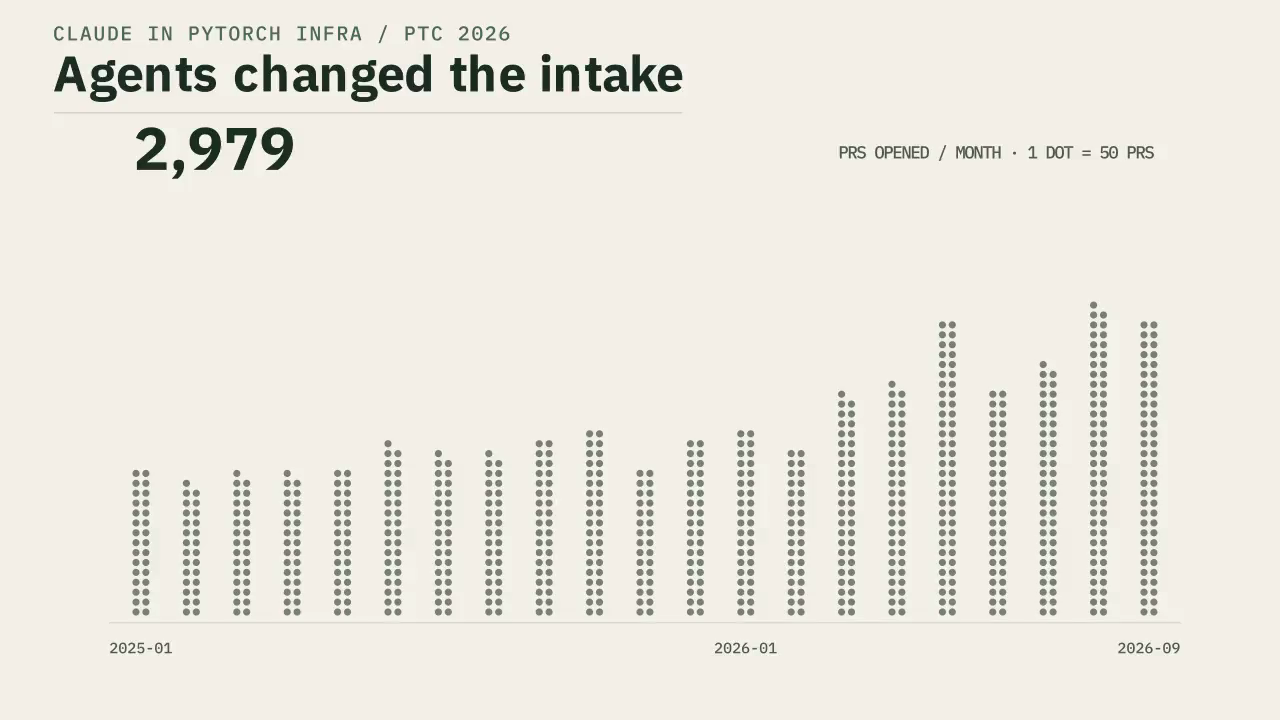
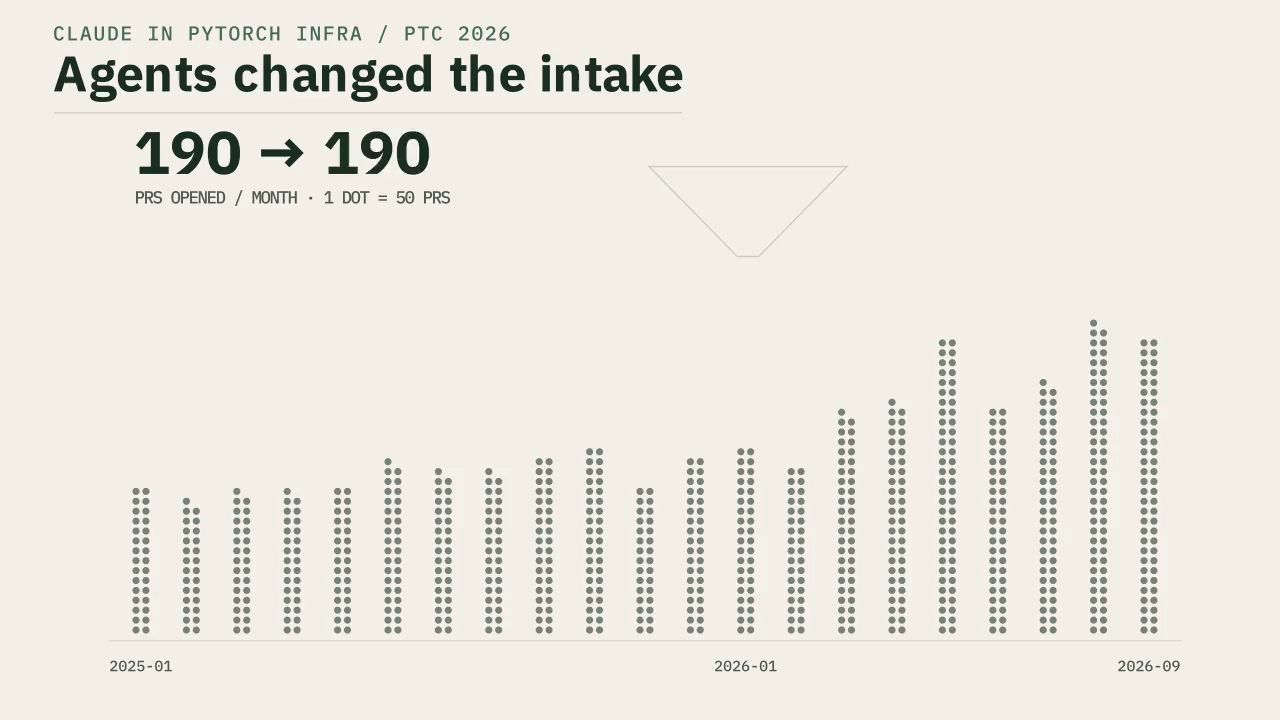
Claude talk: problem prototype pours PR dots through a funnel; drop floating issue band

diff --git a/vizz/presentations/claude_pytorch/sketches/v2_problem.py b/vizz/presentations/claude_pytorch/sketches/v2_problem.py
@@ -1,4 +1,4 @@
-"""Round-2 problem: PR dots pile up month by month, first-time authors turn red, issues stay flat.
+"""Round-2 problem: PR dots pour through a funnel into monthly columns; first-time authors turn red.
 
 Standalone render:
     uv run manim -qm --media_dir /tmp/v2_problem \
@@ -15,17 +15,21 @@ Colors: muted = PRs, red = first-time (untrusted) authors, muted = issues.
 import random
 
 from manim import (
-    DOWN,
     LEFT,
     RIGHT,
     UP,
     Dot,
     FadeIn,
+    FadeOut,
     LaggedStart,
     Line,
+    Polygon,
+    UpdateFromAlphaFunc,
     ValueTracker,
     VGroup,
+    VMobject,
     always_redraw,
+    linear,
     smooth,
 )
 
@@ -47,17 +51,18 @@ MONTHLY_PRS = [
 # fmt: on
 # Quarters 2025 Q1 .. 2026 Q3, aligned with MONTHLY_PRS[3q : 3q + 3].
 FIRST_TIME_PRS = [190, 226, 195, 374, 636, 643, 1824]
-ISSUES = [2098, 2320, 1932, 2084, 1536, 1973, 1881]
 
 COLS_PER_MONTH = 2
 SPACING = 0.11
 DOT_RADIUS = 0.04
 MONTH_PITCH = 0.56
 X0 = -5.6  # left column of the first month
-BASELINE_Y = -2.8
-ISSUE_ROW_Y = 1.1  # bottom row of the issue band
+BASELINE_Y = -3.0
 COUNTER_Y = 2.3
-ISSUE_COLS = 11
+# Funnel above the chart: wide mouth at the top, narrow neck the dots fall through.
+FUNNEL_X = 1.2
+MOUTH_Y, NECK_Y = 2.15, 1.15
+MOUTH_HALF, NECK_HALF = 1.1, 0.12
 LABEL_MONTHS = ("2025-01", "2026-01", "2026-09")
 
 
@@ -87,6 +92,16 @@ def _red_per_month(month_dots: list[int]) -> list[int]:
     return out
 
 
+def _pour(dot: Dot, path: VMobject) -> UpdateFromAlphaFunc:
+    """Fade the dot in at the funnel mouth while it follows its path into the column."""
+
+    def update(d: Dot, alpha: float) -> None:
+        d.move_to(path.point_from_proportion(smooth(alpha)))
+        d.set_fill(opacity=0.75 * min(1.0, alpha * 6))
+
+    return UpdateFromAlphaFunc(dot, update)
+
+
 def build(scene: SlideBase) -> None:
     t = scene.theme
     rng = random.Random(11)
@@ -94,17 +109,34 @@ def build(scene: SlideBase) -> None:
 
     counts = [round(n / PRS_PER_DOT) for _, n in MONTHLY_PRS]
     columns = [_column(i, c) for i, c in enumerate(counts)]
-    dots_by_month = [
-        VGroup(
-            *[
-                Dot(radius=DOT_RADIUS, color=t.muted_text, fill_opacity=0.75).move_to(
-                    p + UP * (4.5 + rng.random() * 1.5) + RIGHT * rng.uniform(-0.2, 0.2)
-                )
-                for p in col
-            ]
-        )
-        for col in columns
-    ]
+    neck = [FUNNEL_X, NECK_Y, 0]
+    dots_by_month, paths_by_month = [], []
+    for col in columns:
+        dots, paths = VGroup(), []
+        for p in col:
+            start = [FUNNEL_X + rng.uniform(-0.8, 0.8) * MOUTH_HALF, MOUTH_Y + 0.25, 0]
+            path = VMobject().set_points_smoothly(
+                [
+                    start,
+                    [FUNNEL_X, (MOUTH_Y + NECK_Y) / 2, 0],
+                    neck,
+                    [(neck[0] + p[0]) / 2, NECK_Y - 0.6, 0],
+                    p,
+                ]
+            )
+            dots.add(Dot(start, radius=DOT_RADIUS, color=t.muted_text, fill_opacity=0))
+            paths.append(path)
+        dots_by_month.append(dots)
+        paths_by_month.append(paths)
+    funnel = Polygon(
+        [FUNNEL_X - MOUTH_HALF, MOUTH_Y, 0],
+        [FUNNEL_X + MOUTH_HALF, MOUTH_Y, 0],
+        [FUNNEL_X + NECK_HALF, NECK_Y, 0],
+        [FUNNEL_X - NECK_HALF, NECK_Y, 0],
+        color=t.divider,
+        stroke_width=1.6,
+        fill_opacity=0,
+    )
 
     # Beat 1: columns drop in month by month while the counter follows the latest month.
     progress = ValueTracker(0)
@@ -120,7 +152,7 @@ def build(scene: SlideBase) -> None:
         )
     )
     unit = scene.meta_text("PRs opened / month · 1 dot = 50 PRs", font_size=14)
-    unit.move_to([X0 + MONTH_PITCH * 20 + SPACING, COUNTER_Y, 0], aligned_edge=RIGHT)
+    unit.move_to([X0, COUNTER_Y - 0.5, 0], aligned_edge=LEFT)
     baseline = Line(
         [X0 - 0.3, BASELINE_Y - 0.12, 0],
         [X0 + MONTH_PITCH * 20 + SPACING + 0.3, BASELINE_Y - 0.12, 0],
@@ -135,23 +167,26 @@ def build(scene: SlideBase) -> None:
             month_labels.add(label)
 
     scene.play(
-        FadeIn(head), FadeIn(unit), FadeIn(baseline), FadeIn(month_labels), run_time=0.4
+        FadeIn(head),
+        FadeIn(unit),
+        FadeIn(baseline),
+        FadeIn(month_labels),
+        FadeIn(funnel),
+        run_time=0.4,
     )
     scene.add(counter)
     drops = []
-    for group, col in zip(dots_by_month, columns, strict=True):
+    for group, paths in zip(dots_by_month, paths_by_month, strict=True):
         drops.append(
             LaggedStart(
-                *[d.animate.move_to(p) for d, p in zip(group, col, strict=True)],
-                lag_ratio=0.01,
+                *[_pour(d, path) for d, path in zip(group, paths, strict=True)],
+                lag_ratio=0.04,
             )
         )
-    for group in dots_by_month:
-        scene.add(group)
     scene.play(
-        LaggedStart(*drops, lag_ratio=0.12),
-        progress.animate(rate_func=smooth).set_value(len(MONTHLY_PRS) - 0.01),
-        run_time=2.8,
+        LaggedStart(*drops, lag_ratio=0.35),
+        progress.animate(rate_func=linear).set_value(len(MONTHLY_PRS) - 0.01),
+        run_time=5.0,
     )
     scene.remove(counter)
     final_counter = scene.title_text(f"{MONTHLY_PRS[-1][1]:,}", font_size=48)
@@ -176,14 +211,24 @@ def build(scene: SlideBase) -> None:
     red_unit = scene.meta_text(
         "first-time-author PRs / quarter", font_size=14, color=t.accent_danger
     )
-    red_unit.move_to(unit, aligned_edge=RIGHT)
+    red_unit.move_to(unit, aligned_edge=LEFT)
     scene.remove(final_counter)
     scene.add(red_counter)
     scene.play(
         FadeIn(red_unit),
         unit.animate.set_opacity(0),
+        funnel.animate.set_stroke(opacity=0.3),
+        *[
+            d.animate.set_fill(opacity=0.22)
+            for group in dots_by_month
+            for d in group
+            if d not in red_dots
+        ],
         LaggedStart(
-            *[d.animate.set_fill(t.accent_danger, opacity=1) for d in red_dots],
+            *[
+                d.animate.set_fill(t.accent_danger, opacity=1).scale(1.5)
+                for d in red_dots
+            ],
             lag_ratio=0.01,
         ),
         first_time.animate(rate_func=smooth).set_value(FIRST_TIME_PRS[-1]),
@@ -200,34 +245,15 @@ def build(scene: SlideBase) -> None:
         notes="problem.first_time — Red is PRs from authors with no prior association with the repo: 190 a quarter in early 2025, over 1,800 a quarter now. Roughly ten times."
     )
 
-    # Beat 3: issues per quarter at the same scale: a flat band above the pile.
-    issue_dots = []
-    for q, n in enumerate(ISSUES):
-        count = round(n / PRS_PER_DOT)
-        x_left = X0 + MONTH_PITCH * 3 * q
-        for k in range(count):
-            p = RIGHT * (x_left + SPACING * (k % ISSUE_COLS)) + UP * (
-                ISSUE_ROW_Y + SPACING * (k // ISSUE_COLS)
-            )
-            issue_dots.append(
-                Dot(radius=DOT_RADIUS, color=t.muted_text, fill_opacity=0.75).move_to(p)
-            )
-    issue_band = VGroup(*issue_dots)
-    issue_unit = scene.meta_text("issues / quarter · flat", font_size=14)
-    issue_unit.next_to(issue_band, UP, buff=0.15).align_to(issue_band, LEFT)
+    # Beat 3: the question.
     question = scene.body_text(
-        "What do maintainers need to keep the bar?", font_size=24
+        "What do maintainers need to keep the bar?", font_size=28
     )
-    question.to_edge(DOWN, buff=0.3)
-    scene.play(
-        FadeIn(issue_band, lag_ratio=0.002),
-        FadeIn(issue_unit),
-        run_time=0.9,
-    )
-    scene.play(FadeIn(question, shift=UP * 0.1), run_time=0.5)
+    question.move_to([X0 + MONTH_PITCH * 20 + SPACING, 1.3, 0], aligned_edge=RIGHT)
+    scene.play(FadeOut(funnel), FadeIn(question, shift=UP * 0.1), run_time=0.5)
     scene.wait(0.2)
     scene.next_slide(
-        notes="problem.issues — Issues, at the same scale, are flat: around two thousand a quarter the whole time. The growth is in PRs, and in who sends them. So: what do maintainers need to keep the bar?"
+        notes="problem.question — Issues over the same period are flat, around two thousand a quarter. The growth is in PRs, and in who sends them. So: what do maintainers need to keep the bar?"
     )
 
 
